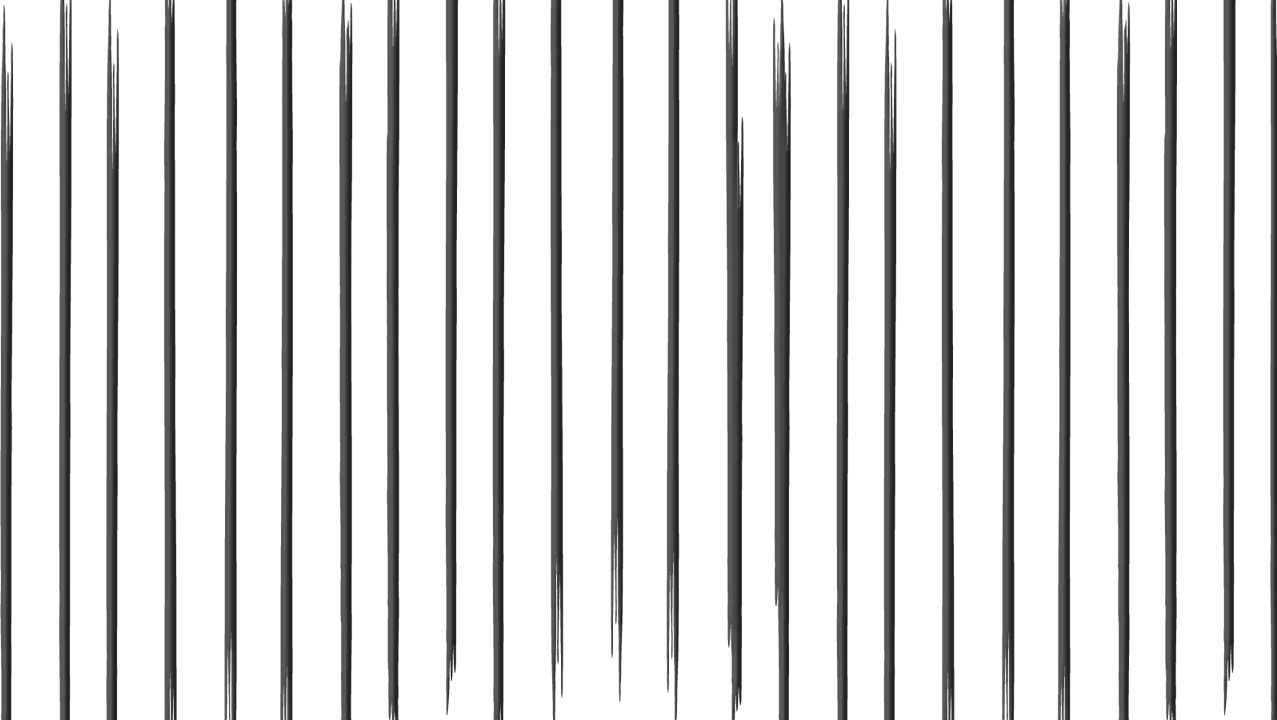
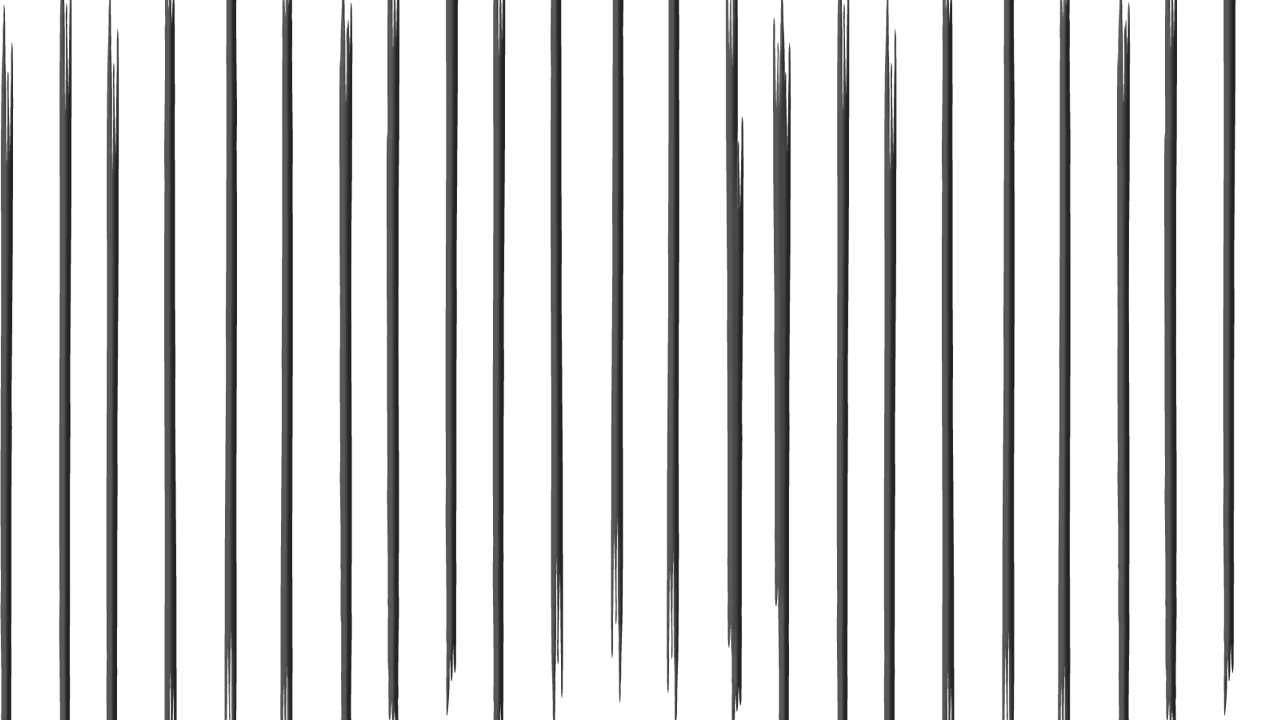
Tweaks

Changed region(s): [[0.9773, 0.0, 1.0, 1.0]]

diff --git a/app/assets/stylesheets/layout.sass b/app/assets/stylesheets/layout.sass
@@ -63,7 +63,8 @@ body
 #bkg5
   background-image: image-url('bars.png')
   z-index: 15
-  background-size: 100% 100%
+  background-repeat: repeat-x
+  background-size: 1277px 100%
 
 .center-fixed
   position: fixed
